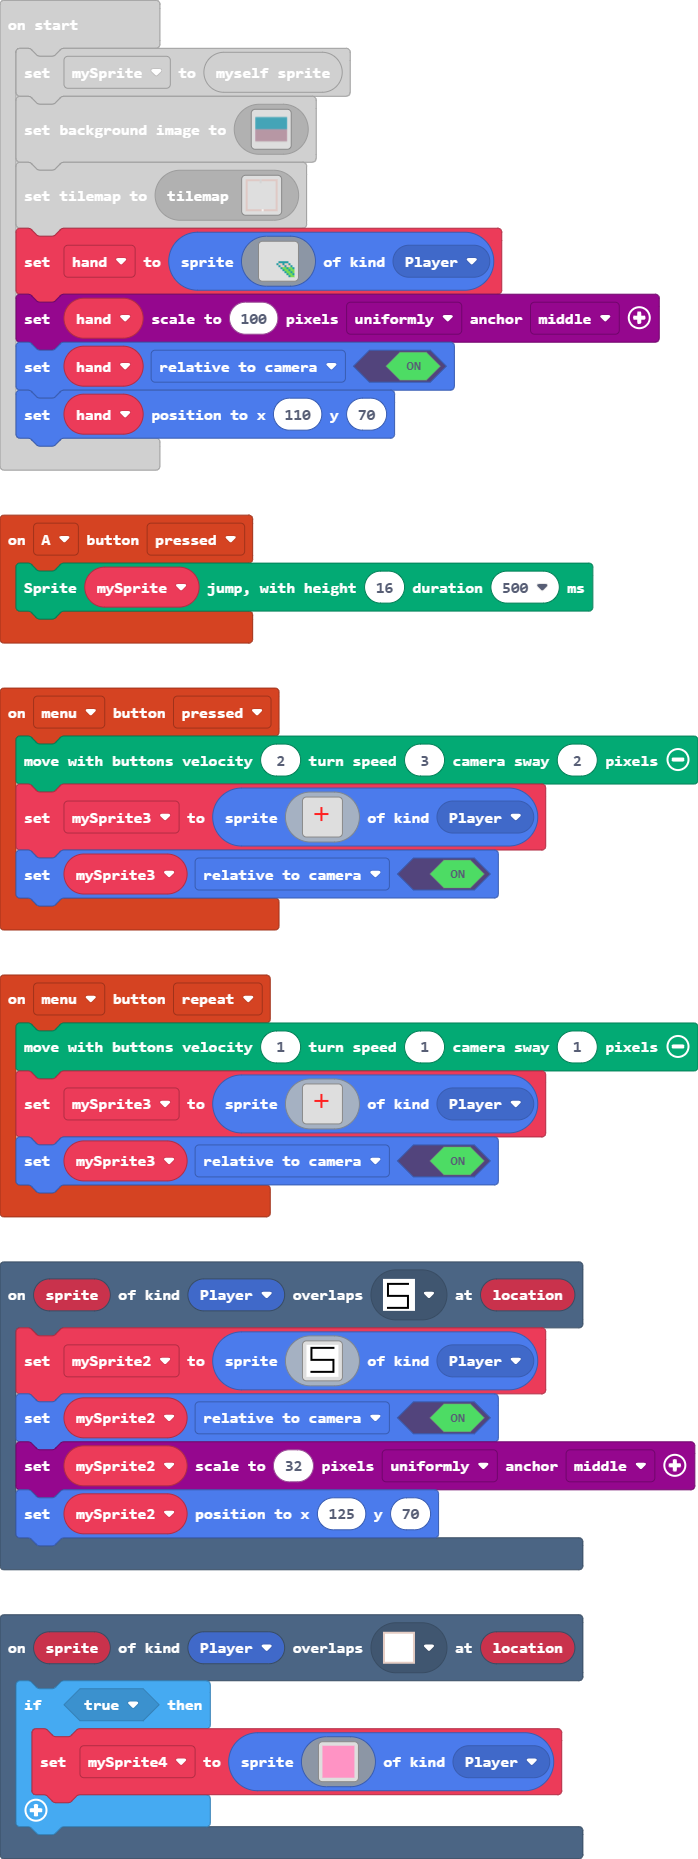
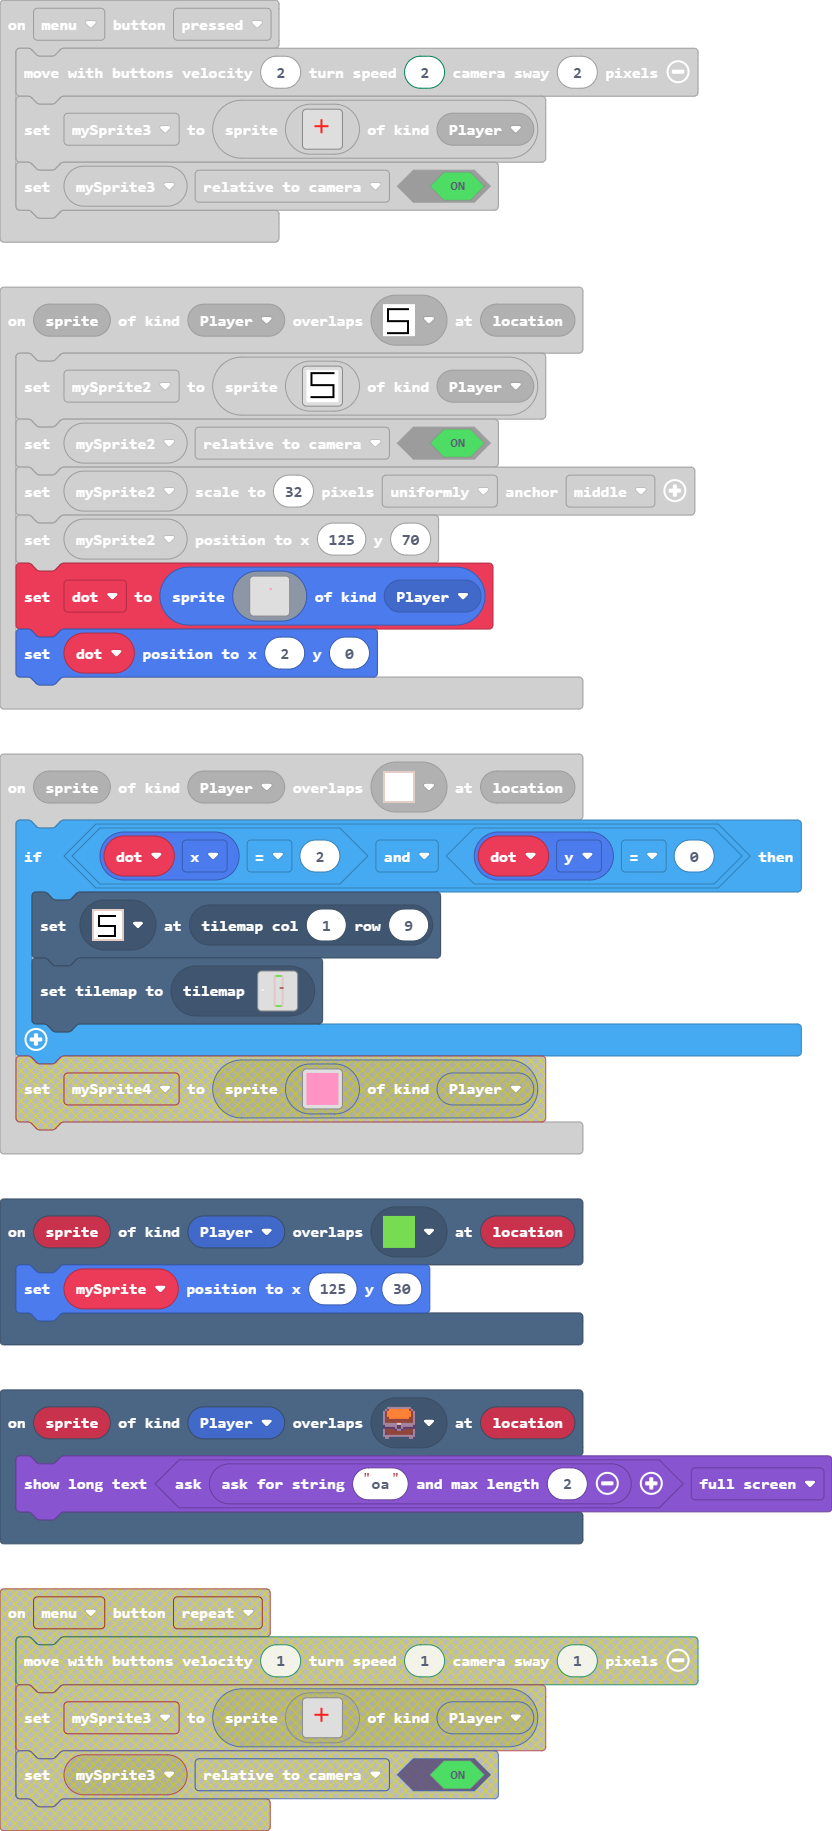
Update main.blocks, main.ts, tilemap.g.jres, tilemap.g.ts

diff --git a/tilemap.g.ts b/tilemap.g.ts
@@ -6,6 +6,16 @@ namespace myTiles {
     export const tile1 = image.ofBuffer(hex``);
     //% fixedInstance jres blockIdentity=images._tile
     export const tile2 = image.ofBuffer(hex``);
+    //% fixedInstance jres blockIdentity=images._tile
+    export const tile3 = image.ofBuffer(hex``);
+    //% fixedInstance jres blockIdentity=images._tile
+    export const tile4 = image.ofBuffer(hex``);
+    //% fixedInstance jres blockIdentity=images._tile
+    export const tile5 = image.ofBuffer(hex``);
+    //% fixedInstance jres blockIdentity=images._tile
+    export const tile8 = image.ofBuffer(hex``);
+    //% fixedInstance jres blockIdentity=images._tile
+    export const tile11 = image.ofBuffer(hex``);
 
     helpers._registerFactory("tilemap", function(name: string) {
         switch(helpers.stringTrim(name)) {
@@ -29,7 +39,7 @@ namespace myTiles {
 . . . . . . . . . . . . . . . . 
 `, [myTiles.transparency16], TileScale.Sixteen);
             case "level2":
-            case "level2":return tiles.createTilemap(hex`1000100001010101010101020101010101010101010000000000000200000000000000010100000000000000000000000000000101000000000000000000000000000001010000000000000000000000000000010100000000000000000000000000000101000000000000000000000000000001010000000000000000000000000000010100000000000000000000000000000101000000000000000000000000000001010000000000000000000000000000010100000000000000000000000000000101000000000000000000000000000001010000000000000000000000000000010100000000000000000000000000000101010101010101010301010101010101`, img`
+            case "level2":return tiles.createTilemap(hex`10001200010101010101010201010101010101010100000000000002000000000000000101000000000000000000000000000001010000000000000000000000000000010100000000000000000000000000000101000000000000000000000000000001010000000000000000000000000000010100000000000000000000000000000101000000000000000000000000000001010000000000000000000000000000010100000000000000000000000000000101000000000000000000000000000001010000000000000000000000000000010100000000000000000000000000000101000000000000000300000000000001010501010101010103010101010101010000000000000000000000000000000401010101010106010101010101010101`, img`
 2 2 2 2 2 2 2 2 2 2 2 2 2 2 2 2 
 2 . . . . . . . . . . . . . . 2 
 2 . . . . . . . . . . . . . . 2 
@@ -46,7 +56,104 @@ namespace myTiles {
 2 . . . . . . . . . . . . . . 2 
 2 . . . . . . . . . . . . . . 2 
 2 2 2 2 2 2 2 2 2 2 2 2 2 2 2 2 
-`, [myTiles.transparency16,sprites.dungeon.floorLight2,myTiles.tile1,myTiles.tile2], TileScale.Sixteen);
+. . . . . . . . . . . . . . . . 
+2 2 2 2 2 2 2 2 2 2 2 2 2 2 2 2 
+`, [myTiles.transparency16,sprites.dungeon.floorLight2,myTiles.tile1,myTiles.tile2,myTiles.tile4,sprites.dungeon.floorLight5,myTiles.tile5], TileScale.Sixteen);
+            case "level3":
+            case "level3":return tiles.createTilemap(hex`1000100000000000000000000000000000000000000000000000000000000000000000000000000000000000000000000000000000000000000000000000000000000000000000000000000000000000000000000000000000000000000000000000000000000000000000000000000000000000000000000000000000000000000000000000000000000000000000000000000000000000000000000000000000000000000000000000000000000000000000000000000000000000000000000000000000000000000000000000000000000000000000000000000000000000000000000000000000000000000000000000000000000000000000000000000000000000`, img`
+. . . . . . . . . . . . . . . . 
+. . . . . . . . . . . . . . . . 
+. . . . . . . . . . . . . . . . 
+. . . . . . . . . . . . . . . . 
+. . . . . . . . . . . . . . . . 
+. . . . . . . . . . . . . . . . 
+. . . . . . . . . . . . . . . . 
+. . . . . . . . . . . . . . . . 
+. . . . . . . . . . . . . . . . 
+. . . . . . . . . . . . . . . . 
+. . . . . . . . . . . . . . . . 
+. . . . . . . . . . . . . . . . 
+. . . . . . . . . . . . . . . . 
+. . . . . . . . . . . . . . . . 
+. . . . . . . . . . . . . . . . 
+. . . . . . . . . . . . . . . . 
+`, [myTiles.transparency16], TileScale.Sixteen);
+            case "level5":
+            case "level5":return tiles.createTilemap(hex`1000100000000000000000000000000000000000000000000000000000000000000000000000000000000000000000000000000000000000000000000000000000000000000000000000000000000000000000000000000000000000000000000000000000000000000000000000000000000000000000000000000000000000000000000000000000000000000000000000000000000000000000000000000000000000000000000000000000000000000000000000000000000000000000000000000000000000000000000000000000000000000000000000000000000000000000000000000000000000000000000000000000000000000000000000000000000000`, img`
+. . . . . . . . . . . . . . . . 
+. . . . . . . . . . . . . . . . 
+. . . . . . . . . . . . . . . . 
+. . . . . . . . . . . . . . . . 
+. . . . . . . . . . . . . . . . 
+. . . . . . . . . . . . . . . . 
+. . . . . . . . . . . . . . . . 
+. . . . . . . . . . . . . . . . 
+. . . . . . . . . . . . . . . . 
+. . . . . . . . . . . . . . . . 
+. . . . . . . . . . . . . . . . 
+. . . . . . . . . . . . . . . . 
+. . . . . . . . . . . . . . . . 
+. . . . . . . . . . . . . . . . 
+. . . . . . . . . . . . . . . . 
+. . . . . . . . . . . . . . . . 
+`, [myTiles.transparency16], TileScale.Sixteen);
+            case "level6":
+            case "level6":return tiles.createTilemap(hex`1000100000000000000000000000000000000000000000000000000000000000000000000000000000000000000000000000000000000000000000000000000000000000000000000000000000000000000000000000000000000000000000000000000000000000000000000000000000000000000000000000000000000000000000000000000000000000000000000000000000000000000000000000000000000000000000000000000000000000000000000000000000000000000000000000000000000000000000000000000000000000000000000000000000000000000000000000000000000000000000000000000000000000000000000000000000000000`, img`
+. . . . . . . . . . . . . . . . 
+. . . . . . . . . . . . . . . . 
+. . . . . . . . . . . . . . . . 
+. . . . . . . . . . . . . . . . 
+. . . . . . . . . . . . . . . . 
+. . . . . . . . . . . . . . . . 
+. . . . . . . . . . . . . . . . 
+. . . . . . . . . . . . . . . . 
+. . . . . . . . . . . . . . . . 
+. . . . . . . . . . . . . . . . 
+. . . . . . . . . . . . . . . . 
+. . . . . . . . . . . . . . . . 
+. . . . . . . . . . . . . . . . 
+. . . . . . . . . . . . . . . . 
+. . . . . . . . . . . . . . . . 
+. . . . . . . . . . . . . . . . 
+`, [myTiles.transparency16], TileScale.Sixteen);
+            case "level4":
+            case "level4":return tiles.createTilemap(hex`1000100000000000000001030303010000000000000000000000010000000100000000000000000000000100000001000000000000000000000001000000010000000000000000000000010000000100000000000000000000000100000001000000000000000000000001000004040000000000020000000000010000000100000000000000000000000100000001000000000000000000000001000000010000000000000000000000010000000100000000000000000000000100000001000000000000000000000001000000010000000000000000000000010000000100000000000000000000000100000001000000000000000000000001030303010000000000`, img`
+. . . . . . 2 . . . 2 . . . . . 
+. . . . . . 2 . . . 2 . . . . . 
+. . . . . . 2 . . . 2 . . . . . 
+. . . . . . 2 . . . 2 . . . . . 
+. . . . . . 2 . . . 2 . . . . . 
+. . . . . . 2 . . . 2 . . . . . 
+. . . . . . 2 . . . 2 . . . . . 
+. . . . . . 2 . . . 2 . . . . . 
+. . . . . . 2 . . . 2 . . . . . 
+. . . . . . 2 . . . 2 . . . . . 
+. . . . . . 2 . . . 2 . . . . . 
+. . . . . . 2 . . . 2 . . . . . 
+. . . . . . 2 . . . 2 . . . . . 
+. . . . . . 2 . . . 2 . . . . . 
+. . . . . . 2 . . . 2 . . . . . 
+. . . . . . 2 . . . 2 . . . . . 
+`, [myTiles.transparency16,sprites.dungeon.floorLight2,myTiles.tile8,myTiles.tile11,sprites.dungeon.chestClosed], TileScale.Sixteen);
+            case "level7":
+            case "level7":return tiles.createTilemap(hex`1000100000000000000000000000000000000000000000000000000000000000000000000000000000000000000000000000000000000000000000000000000000000000000000000000000000000000000000000000000000000000000000000000000000000000000000000000000000000000000000000000000000000000000000000000000000000000000000000000000000000000000000000000000000000000000000000000000000000000000000000000000000000000000000000000000000000000000000000000000000000000000000000000000000000000000000000000000000000000000000000000000000000000000000000000000000000000`, img`
+. . . . . . . . . . . . . . . . 
+. . . . . . . . . . . . . . . . 
+. . . . . . . . . . . . . . . . 
+. . . . . . . . . . . . . . . . 
+. . . . . . . . . . . . . . . . 
+. . . . . . . . . . . . . . . . 
+. . . . . . . . . . . . . . . . 
+. . . . . . . . . . . . . . . . 
+. . . . . . . . . . . . . . . . 
+. . . . . . . . . . . . . . . . 
+. . . . . . . . . . . . . . . . 
+. . . . . . . . . . . . . . . . 
+. . . . . . . . . . . . . . . . 
+. . . . . . . . . . . . . . . . 
+. . . . . . . . . . . . . . . . 
+. . . . . . . . . . . . . . . . 
+`, [myTiles.transparency16], TileScale.Sixteen);
         }
         return null;
     })
@@ -58,6 +165,16 @@ namespace myTiles {
             case "tile1":return tile1;
             case "myTile0":
             case "tile2":return tile2;
+            case "myTile1":
+            case "tile3":return tile3;
+            case "myTile2":
+            case "tile4":return tile4;
+            case "myTile3":
+            case "tile5":return tile5;
+            case "myTile6":
+            case "tile8":return tile8;
+            case "myTile9":
+            case "tile11":return tile11;
         }
         return null;
     })

diff --git a/main.ts b/main.ts
@@ -2,25 +2,9 @@ namespace SpriteKind {
     export const pop1 = SpriteKind.create()
 }
 scene.onOverlapTile(SpriteKind.Player, assets.tile`myTile0`, function (sprite, location) {
-    if (true) {
-        mySprite4 = sprites.create(img`
-            3 3 3 3 3 3 3 3 3 3 3 3 3 3 3 3 
-            3 3 3 3 3 3 3 3 3 3 3 3 3 3 3 3 
-            3 3 3 3 3 3 3 3 3 3 3 3 3 3 3 3 
-            3 3 3 3 3 3 3 3 3 3 3 3 3 3 3 3 
-            3 3 3 3 3 3 3 3 3 3 3 3 3 3 3 3 
-            3 3 3 3 3 3 3 3 3 3 3 3 3 3 3 3 
-            3 3 3 3 3 3 3 3 3 3 3 3 3 3 3 3 
-            3 3 3 3 3 3 3 3 3 3 3 3 3 3 3 3 
-            3 3 3 3 3 3 3 3 3 3 3 3 3 3 3 3 
-            3 3 3 3 3 3 3 3 3 3 3 3 3 3 3 3 
-            3 3 3 3 3 3 3 3 3 3 3 3 3 3 3 3 
-            3 3 3 3 3 3 3 3 3 3 3 3 3 3 3 3 
-            3 3 3 3 3 3 3 3 3 3 3 3 3 3 3 3 
-            3 3 3 3 3 3 3 3 3 3 3 3 3 3 3 3 
-            3 3 3 3 3 3 3 3 3 3 3 3 3 3 3 3 
-            3 3 3 3 3 3 3 3 3 3 3 3 3 3 3 3 
-            `, SpriteKind.Player)
+    if (dot.x == 2 && dot.y == 0) {
+        tiles.setTileAt(tiles.getTileLocation(1, 9), assets.tile`myTile1`)
+        tiles.setCurrentTilemap(tilemap`level4`)
     }
 })
 scene.onOverlapTile(SpriteKind.Player, assets.tile`myTile`, function (sprite, location) {
@@ -45,23 +29,17 @@ scene.onOverlapTile(SpriteKind.Player, assets.tile`myTile`, function (sprite, lo
     mySprite2.setFlag(SpriteFlag.RelativeToCamera, true)
     scaling.scaleToPixels(mySprite2, 32, ScaleDirection.Uniformly, ScaleAnchor.Middle)
     mySprite2.setPosition(125, 70)
-})
-controller.A.onEvent(ControllerButtonEvent.Pressed, function () {
-    Render.jumpWithHeightAndDuration(mySprite, 16, 500)
-})
-controller.menu.onEvent(ControllerButtonEvent.Repeated, function () {
-    Render.moveWithController(1, 1, 1)
-    mySprite3 = sprites.create(img`
+    dot = sprites.create(img`
         . . . . . . . . . . . . . . . . 
         . . . . . . . . . . . . . . . . 
         . . . . . . . . . . . . . . . . 
-        . . . . . . . 2 . . . . . . . . 
-        . . . . . . . 2 . . . . . . . . 
-        . . . . . . . 2 . . . . . . . . 
-        . . . . 2 2 2 2 2 2 2 . . . . . 
-        . . . . . . . 2 . . . . . . . . 
-        . . . . . . . 2 . . . . . . . . 
-        . . . . . . . 2 . . . . . . . . 
+        . . . . . . . . . . . . . . . . 
+        . . . . . . . . 3 . . . . . . . 
+        . . . . . . . . . . . . . . . . 
+        . . . . . . . . . . . . . . . . 
+        . . . . . . . . . . . . . . . . 
+        . . . . . . . . . . . . . . . . 
+        . . . . . . . . . . . . . . . . 
         . . . . . . . . . . . . . . . . 
         . . . . . . . . . . . . . . . . 
         . . . . . . . . . . . . . . . . 
@@ -69,10 +47,19 @@ controller.menu.onEvent(ControllerButtonEvent.Repeated, function () {
         . . . . . . . . . . . . . . . . 
         . . . . . . . . . . . . . . . . 
         `, SpriteKind.Player)
-    mySprite3.setFlag(SpriteFlag.RelativeToCamera, true)
+    dot.setPosition(2, 0)
+})
+controller.A.onEvent(ControllerButtonEvent.Pressed, function () {
+    Render.jumpWithHeightAndDuration(mySprite, 16, 500)
+})
+scene.onOverlapTile(SpriteKind.Player, assets.tile`myTile9`, function (sprite, location) {
+    mySprite.setPosition(125, 30)
+})
+scene.onOverlapTile(SpriteKind.Player, sprites.dungeon.chestClosed, function (sprite, location) {
+    game.showLongText(game.ask(game.askForString("oa", 2)), DialogLayout.Full)
 })
 controller.menu.onEvent(ControllerButtonEvent.Pressed, function () {
-    Render.moveWithController(2, 3, 2)
+    Render.moveWithController(2, 2, 2)
     mySprite3 = sprites.create(img`
         . . . . . . . . . . . . . . . . 
         . . . . . . . . . . . . . . . . 
@@ -95,7 +82,7 @@ controller.menu.onEvent(ControllerButtonEvent.Pressed, function () {
 })
 let mySprite3: Sprite = null
 let mySprite2: Sprite = null
-let mySprite4: Sprite = null
+let dot: Sprite = null
 let mySprite: Sprite = null
 mySprite = Render.getRenderSpriteVariable()
 scene.setBackgroundImage(img`
